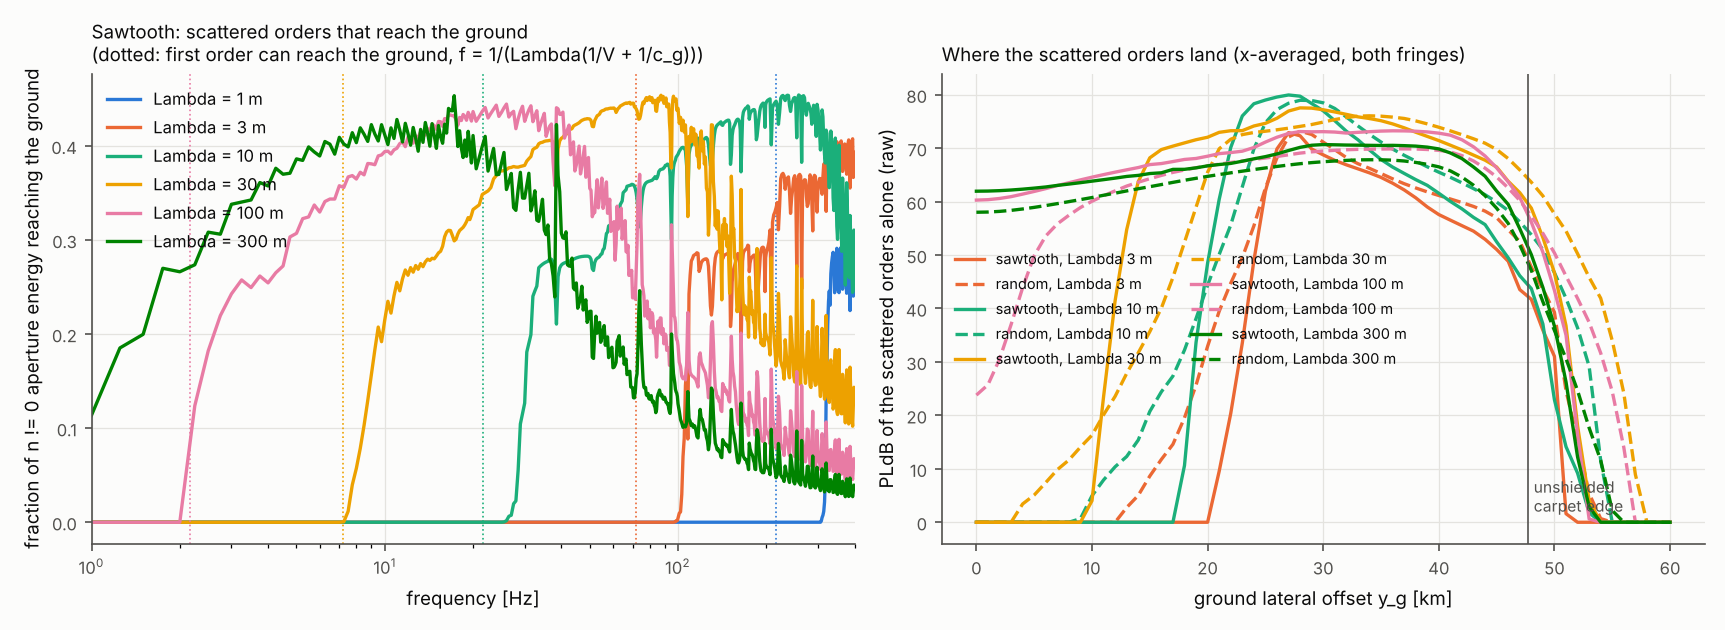
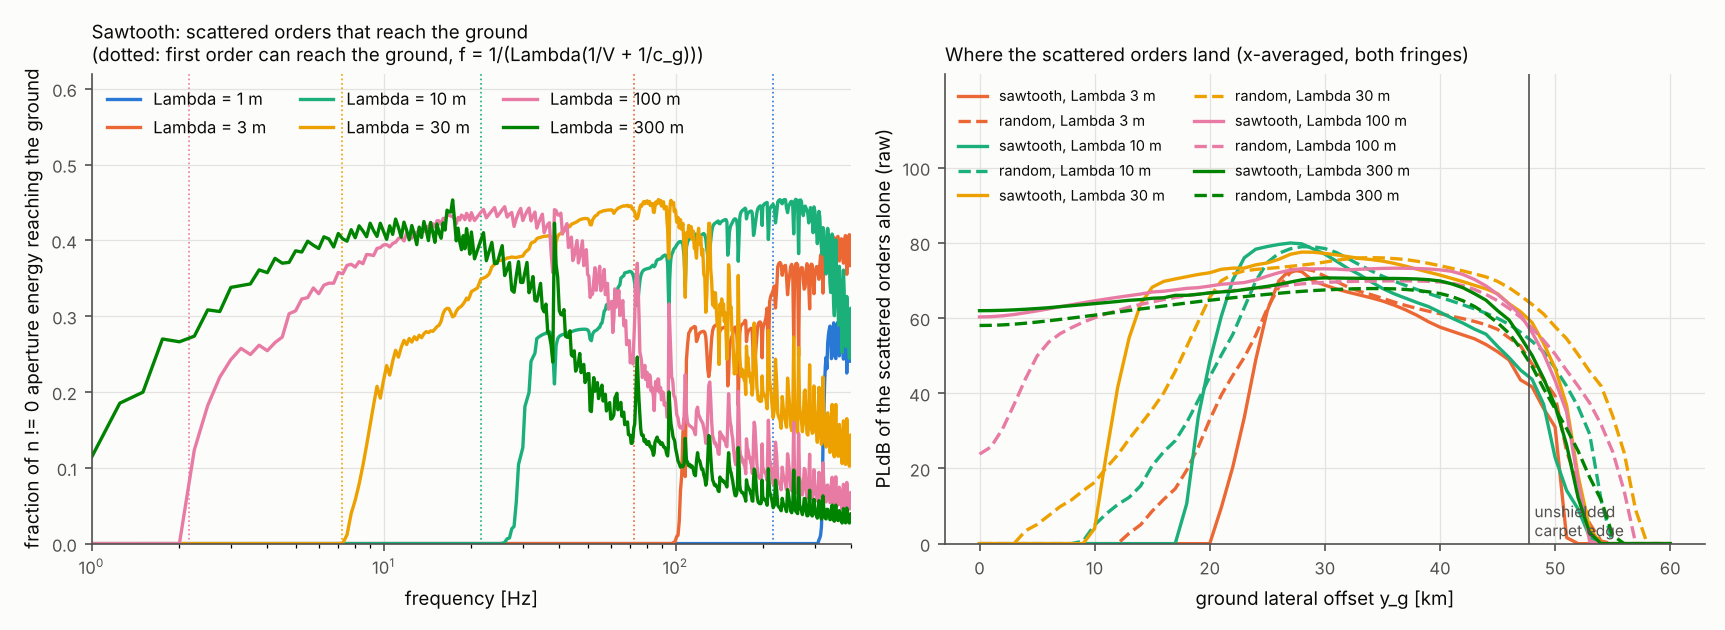
Add along-track 3-D study of serrated edges and module joints
Physical optics with exact along-track Fourier orders, each propagated
along its own direction. Serrated-edge fringe benefit survives only for
tooth periods <~1 m; coarser teeth scatter new off-track leaks. Open
joints leak strongly; membrane-closed joints are acceptable up to ~1-2 m.

Claude-Session: https://claude.ai/code/session_01RbnYLXCK3HPi4Bm69kAxad

diff --git a/boom-shield/sim/run_alongtrack.py b/boom-shield/sim/run_alongtrack.py
@@ -29,8 +29,15 @@ Stages (cached under results/alongtrack_cache/, resumable):
   scatter   non-specular orders of the serrated fringes (all cases)
   joints    joint orders + n = 0 leak spectra on the matching circles
   specular  nonlinear ground propagation of the n = 0 parts
+  hf        short-period serrations with the scattered field to 1 kHz
+  jextra    extra joint gaps (open 0.1-0.5 m, membranes 2 and 10 m), scattered part
   report    tables (stdout), results/alongtrack_results.csv, alongtrack_budget.csv,
             figures results/alongtrack_*.png
+  burgers   re-steepening check: dominant scattered tone burst through propagate(),
+            nonlinear vs linear (needs report first)
+
+Full run used: valid scatter joints specular; then hf jextra; then report burgers
+(~5.5 h with 2 worker processes).
 
 Run:  python boom-shield/sim/run_alongtrack.py [stage ...] [--procs 2]
 Uses at most --procs worker processes (default 2) with single-threaded BLAS.
@@ -628,7 +635,6 @@ def report():
         d = load(case_name(shape, Lam, w_f, seed) + ".pkl")
         if d is not None:
             cases[(shape, Lam, w_f, seed)] = d
-    summ = []
 
     def add_rows(label, key, tag, E, phis, R, extra):
         out = []
@@ -650,9 +656,6 @@ def report():
             out.append(row)
         return out
 
-    # references
-    for tag, label in (("sharp_cached", "sharp edge (run_3d)"), ("fringe", "x-averaged raised-cosine fringe 150 m")):
-        pass
     ref_rows = []
     for (ph, b, cr), r in sorted(g_sharp.items()):
         if b != "full" or cr != R3.CROP_REL or r["metrics"] is None:
@@ -1111,7 +1114,8 @@ def figures(cases, jsc, rows_csv, so_tab, ycut, v):
     ax.set_xlabel("ground lateral offset y_g [km]")
     ax.set_ylabel("PLdB of the scattered orders alone (raw)")
     ax.set_title("Where the scattered orders land (x-averaged, both fringes)", loc="left", fontsize=9)
-    ax.set_ylim(0, 100)
+    ax.set_ylim(0, 125)
+    ax.set_yticks(range(0, 101, 20))
     ax.legend(frameon=False, fontsize=7, ncol=2, loc="upper left")
     _style(ax)
     fig.tight_layout()

diff --git a/boom-shield/sim/results/alongtrack_summary.md b/boom-shield/sim/results/alongtrack_summary.md
@@ -1,0 +1,81 @@
+# Along-track variation: serrated edges and module joints (3-D)
+
+`run_alongtrack.py` / `boomsim/alongtrack.py`. Data `alongtrack_results.csv`, `alongtrack_budget.csv`; figures `alongtrack_{carpets,orders,joints}.png`. Concorde M2, h 250 m, W 1 km, H₂ 30 m slab. Δ = less favourable of raw/proxy ΔPLdB vs unshielded.
+
+## Bottom line
+
+1. **Serrations act as a grating.** The x-averaged model drops τ(1−τ) of the aperture field (28 % of the n = 0 energy). Once orders k_x,n = ω/V + 2πn/Λ reach the ground, up to 45 % of it lands at y ≈ 20–37 km, 20–35 dB above the x-averaged residual.
+2. **Λ = 10–30 m is worse than a sharp edge** at 23–35 km (up to +6 dB). At Λ = 100–300 m the near track falls from −∞ to −38…−43 (sharp −34). **The full benefit survives only for periodic Λ ≲ 1 m**; Λ = 2 m loses up to 12 dB at 27 km. Random phase fills k_x ≈ 0 at every frequency, so it does not help at short Λ.
+3. **Open joints are unacceptable:** 1 m every 250 m gives −24.5 instead of −33.7 undertrack; ~1 dB needs g ≲ 0.1 m. **Membrane-only joints** are fine to g ≈ 1 m (L 250) or 2 m (L 500).
+
+## Method
+
+- **3-D PO + Floquet orders.** Aperture field p_inc + χ(x,y)·D(y), with D crossplane's PO difference field and χ the plan-view mask. Exact Fourier coefficients c_n(y) give x-plane-wave orders, each an exact 2-D problem (κ_n² = k₀² − k_x,n²); c₀ = τ(y) is the x-averaged model.
+- **Shapes** share the raised-cosine τ(y), so n = 0 is the cached BEM fringe run: one-sided sawtooth, symmetric teeth, and random-phase (symmetric teeth randomly shifted per period, 8-period supercell; two realisations agree within 1 dB).
+- **Ground.** Each order's angular spectrum is carried as ray-tube energy flux along its own slowness (k_x,n, k_y)/ω. It includes the stratified Jacobian, absorption, reflection and anchor. The x-averaged ESD Σ_n|P_n|² is added in 1/3-octave bands to the specular ground signature (cached BEM circle spectra through the unchanged nonlinear `propagate_from_circle`). For joints, the coherent n = 0 leak (g/L)(D_gap − D_stack) is added on the circle first. Scattered fields go to 400 Hz; 1 kHz changes Δ by ≤ 0.3 dB.
+- **Re-steepening.** The loudest scattered band (63–79 Hz) was taken at ground amplitude, compressed into one 70 ms burst (conservative). Run back along its ray through `propagate()`, it gains **+1.9 to +3.4 dB** nonlinear vs linear (Σ ≤ 1.2). Scattered levels may be ~3 dB optimistic; no verdict changes.
+
+## Validation
+
+| check | result |
+|---|---|
+| PO D(y) vs `crossplane.po_solve` | 5e-13 |
+| n = 0 of a sawtooth (exact c₀) vs crossplane fringe PO, 12/30/60 Hz | ≤ 3e-13 |
+| Sum of orders vs brute-force 3-D Rayleigh integral (toy, test) | < 2 % |
+| Flux mapping vs linear `propagate_from_circle` (unshielded, 10–60 Hz, φ 0–39°) | ≤ 0.03 dB |
+| Ray tables vs `RayPath` (offset, Jacobian) | 1e-6 |
+| Re-propagated cached spectra vs `3d_results.csv` (sharp, fringe) | identical (0.00 dB) |
+| Sharp edge, PO vs BEM on the circle (5–100 Hz) | within 0.5–5 dB (PO louder near track) |
+| x-averaged fringe, PO vs BEM ≥ 20 Hz | PO 10–50 dB lower: the BEM n = 0 values are floor-limited, so the fringe residual used here is an upper bound |
+
+## Q1. Serrated edges (w_f 150 m): Δ PLdB vs ground offset
+
+R_m 3 km (first column 8 km). First order reaches the ground above f₁ = 1/(Λ(1/V + 1/c_g)) = 216, 72, 22, 7, 2 Hz for Λ = 1…100 m (actual onset ~1.4× higher: the edge field has lateral slowness).
+
+| case | 0 km (8 km R_m) | 9.7 | 18.3 | 23.5 | 26.9 | 31.5 | 39.3 |
+|---|---|---|---|---|---|---|---|
+| sharp edge | −33.7 | −29.4 | −23.8 | −21.7 | −20.2 | −19.0 | −17.0 |
+| x-averaged fringe (n = 0) | −∞ | −63.3 | −51.9 | −49.5 | −47.4 | −40.1 | −24.7 |
+| sawtooth Λ 1 m | −∞ | −63.3 | −51.9 | −49.5 | −47.4 | −39.9 | −24.7 |
+| sawtooth Λ 2 m (to 1 kHz) | −∞ | −63.3 | −51.9 | −49.1 | −35.1 | −32.8 | −24.5 |
+| sawtooth Λ 3 m | −∞ | −63.3 | −51.9 | −47.0 | −23.9 | −25.6 | −23.6 |
+| sawtooth Λ 10 m | −∞ | −63.3 | −51.5 | **−17.2** | **−13.8** | −19.4 | −22.5 |
+| sawtooth Λ 30 m | −∞ | −62.5 | −24.8 | −20.9 | **−16.7** | **−15.7** | −17.8 |
+| sawtooth Λ 100 m | −40.2 | −34.5 | −28.1 | −24.9 | −20.9 | −19.5 | −16.5 |
+| sawtooth Λ 300 m | −38.5 | −35.1 | −29.9 | −26.7 | −24.1 | −21.5 | −18.6 |
+| random Λ 1 m | −∞ | −63.3 | −51.8 | −47.6 | −34.6 | −34.2 | −24.6 |
+| random Λ 3 m | −∞ | −63.2 | −51.6 | −41.3 | −24.5 | −24.9 | −23.5 |
+| random Λ 10 m | −∞ | −62.8 | −49.9 | −28.1 | **−15.6** | **−16.6** | −21.6 |
+| random Λ 30 m | −108.8 | −61.9 | −40.2 | −21.9 | −20.0 | **−16.8** | **−15.8** |
+| random Λ 100 m | −76.4 | −39.3 | −30.1 | −26.9 | −24.9 | −22.6 | −18.9 |
+| random Λ 300 m | −42.7 | −38.4 | −31.9 | −28.7 | −26.7 | −24.4 | −20.6 |
+
+Bold: louder than sharp. Symmetric teeth match random phase within ~1 dB for Λ ≥ 10 m (CSV); the one-sided sawtooth is up to 11 dB worse (its order phase steers energy inward).
+
+- **Where the orders go.** Orders with k_x,n ≈ 0 leave nearly vertically along-track. They keep the edge field's outward lateral slowness, which the specular wave would carry beyond cut-off, and land at 20–37 km. Some reach 50–57 km, beyond the 47.7 km unshielded carpet edge, at up to 64 PLdB.
+- **Long Λ (100–300 m)** gives many weak near-specular orders. They fill the near track and leave the outer carpet 0–4 dB better than the sharp edge.
+- **Fringe depth.** A deeper fringe scatters more: the scattered-only maximum for w_f = 75 / 150 / 300 m is 75 / 80 / 83 PLdB at Λ = 10 m. Depth does not open the window.
+
+**Design window: periodic Λ ≲ 1 m** (no ground-reaching order below ~300 Hz), any w_f; a 2 m pitch is a marginal fallback. Such teeth are sub-metre slivers of a 30 m stack. PO overstates their opacity, since the gas field's lateral decay length is 2–20 m. A real apodised edge is better built as a sheet with properties graded in y than as plan-view teeth. The 10–300 m pitches a modular build would produce do not deliver the fringe benefit.
+
+## Q2. Module joints (sharp edge, gap across the full width)
+
+| joint | undertrack, 8 km R_m | 0 km (3 km) | 9.7 km | 14.4 km | 31.5 km |
+|---|---|---|---|---|---|
+| none (sharp) | −33.7 | −38.5 | −29.4 | −26.1 | −19.0 |
+| open, g 0.1 / 0.25 / 0.5 m, L 250 m | – | −37.2 / −34.3 / −30.1 | – | – | −19.0 |
+| open, g 1 m, L 250 / 500 m | −24.5 / −27.1 | −24.9 / −28.0 | −24.2 / −26.1 | −23.1 / −24.4 | −18.8 / −18.9 |
+| open, g 5 m, L 250 / 500 m | −13.9 / −17.2 | −14.0 / −17.3 | −14.5 / −17.7 | −14.9 / −17.9 | −16.8 / −17.7 |
+| open, g 20 m, L 250 / 500 m | −6.5 / −9.8 | −6.5 / −9.8 | −7.2 / −10.4 | −7.8 / −10.9 | −10.5 / −13.2 |
+| membranes, g 1 m, L 250 / 500 m | −33.4 / −33.5 | −37.8 / −38.2 | −29.3 / −29.3 | −26.0 / −26.1 | −19.0 / −19.0 |
+| membranes, g 2 m, L 250 / 500 m | – | −36.6 / −37.5 | – | – | −19.0 / −19.1 |
+| membranes, g 5 m, L 250 / 500 m | −31.0 / −32.1 | −33.6 / −35.5 | −28.6 / −29.0 | −25.5 / −25.8 | −19.0 / −19.0 |
+| membranes, g 20 m, L 250 / 500 m | −26.0 / −28.6 | −27.1 / −30.2 | −25.9 / −27.4 | −23.2 / −24.4 | −17.9 / −18.8 |
+
+- **Where it lands:** the incident passes from beneath the shield, so the leak covers **the whole carpet, peaking under the track**.
+- **Scattered orders dominate:** n = 0 alone gives −20.6 at worst (g 20 m, L 250 m) vs −6.5 with orders. Order energy grows ∝ g/L for g ≳ λ, ∝ (g/L)² for g ≪ λ.
+- **Allowable gap.** Open: ≲ 0.1 m for ~1 dB (0.25 m already costs 3–4 dB). Membranes only: ≲ 1 m (L 250 m) or 2 m (L 500 m) for ≤ 1 dB; 5 m costs 3–5 dB at R_m 3 km (2.7 dB at 8 km).
+
+## Limitations
+
+PO teeth and slots (narrow teeth less opaque than assumed; a 30 m-deep slot treated as thin). Launch points ±75 m (fringe), ±500 m (joint). Energies are x-averaged; few-order cases (Λ ≤ 10 m) can vary ±3 dB along x. The BEM n = 0 fringe is floor-limited (upper bound), and near-track R_m 3 km values are optimistic. No wind or turbulence; upward and ducted orders are not followed.

diff --git a/boom-shield/README.md b/boom-shield/README.md
@@ -18,6 +18,8 @@ Copied from the full [ChatG thread here](https://chatgpt.com/share/69e16de1-e3ac
 - [sim/results/gate0_summary.md](sim/results/gate0_summary.md): Gate 0 results: ground PLdB with lift-closed membrane/gas/membrane shields in full nonlinear propagation (1-D, infinite shield).
 - [sim/results/review_evanescent.md](sim/results/review_evanescent.md): adversarial review of the evanescent gas-layer shielding mechanism and its realistic floors.
 - [sim/results/3d_summary.md](sim/results/3d_summary.md): 3-D finite-width corridor study: ground carpets vs shield width, stack, edge treatment, cell walls, ties, aircraft.
+- [sim/results/alongtrack_summary.md](sim/results/alongtrack_summary.md): along-track (3-D) study of serrated edges and module joints.
+- [sim/results/line_ties_check.md](sim/results/line_ties_check.md): line-tie bug finding, independent Floquet check, and tie-stiffness design rule.
 - [vacuum/vacuum-balloon-review.md](vacuum/vacuum-balloon-review.md): screening review of the inverted (vacuum) balloon option: acoustics, structural closure, pumping, failure modes.
 - [structure/structure-concept.md](structure/structure-concept.md): structural concept study for a ~1 km-wide H2 shield with acoustically decoupled faces; recommends the "floating-lid" pillow baseline.
 
